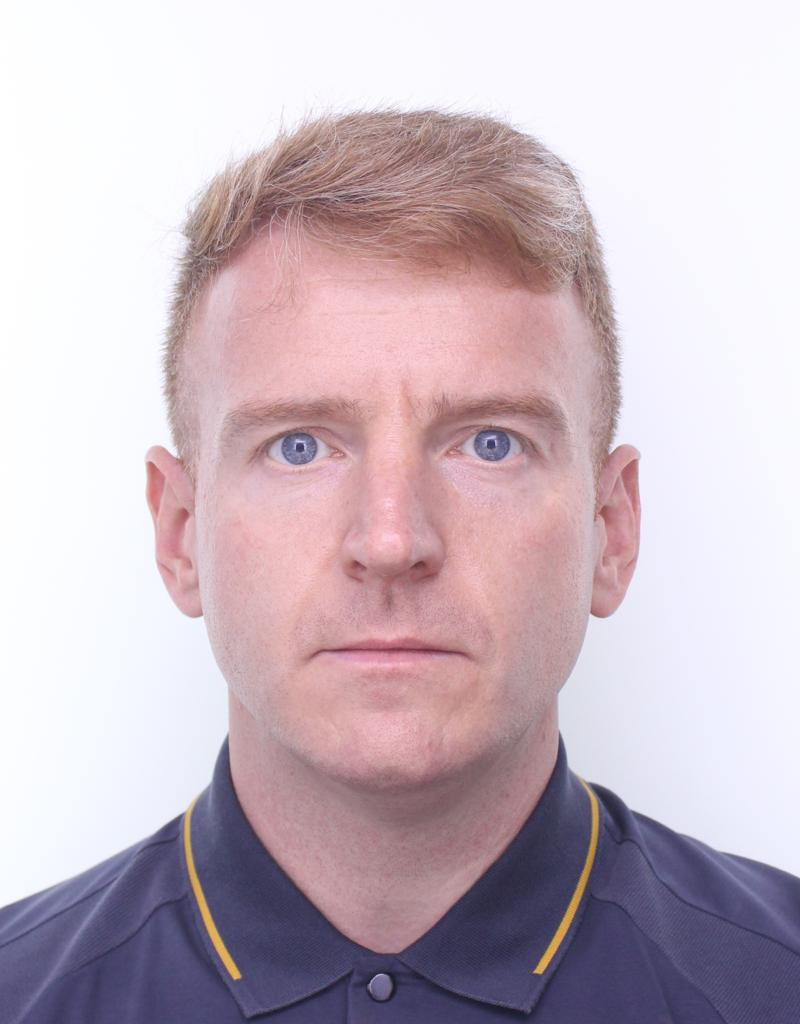
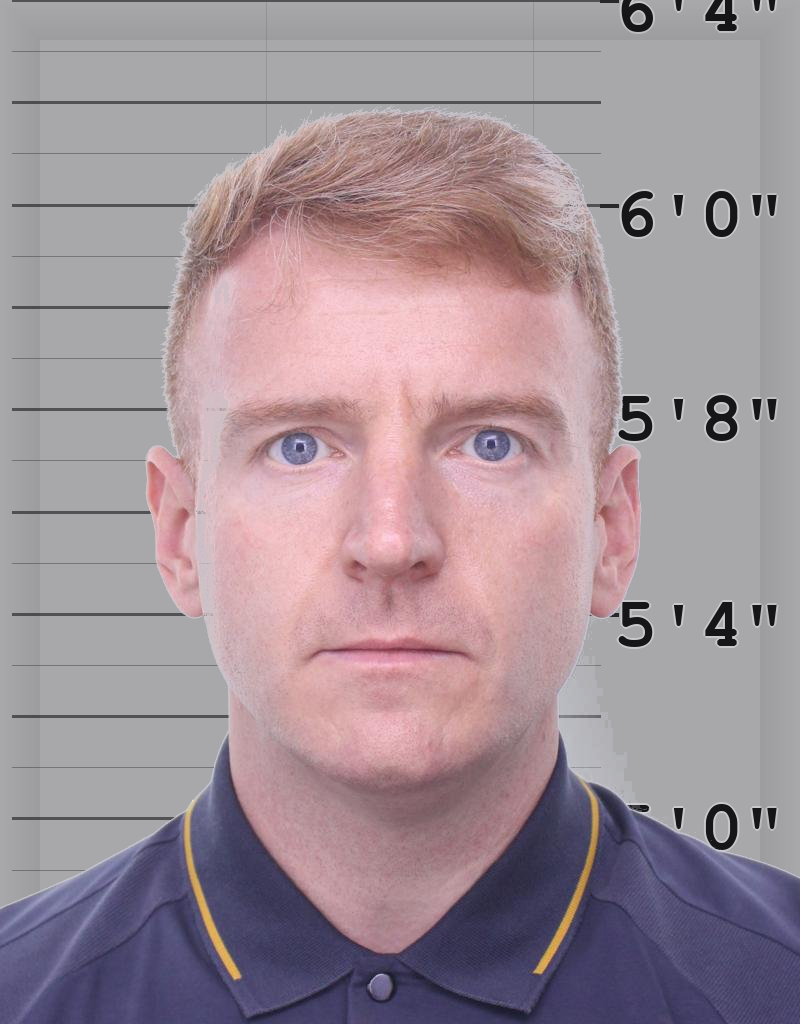
Give the hero portrait a mugshot height-chart backdrop.

diff --git a/src/content/site.ts b/src/content/site.ts
@@ -47,7 +47,7 @@ export const site = {
   },
   heroPortrait: {
     src: "/images/hero-portrait.png",
-    alt: "Portrait of David Swift",
+    alt: "David Swift — mugshot-style portrait",
   },
   ventures: [
     { roman: "I", name: "Swift-Tech Industries" },
